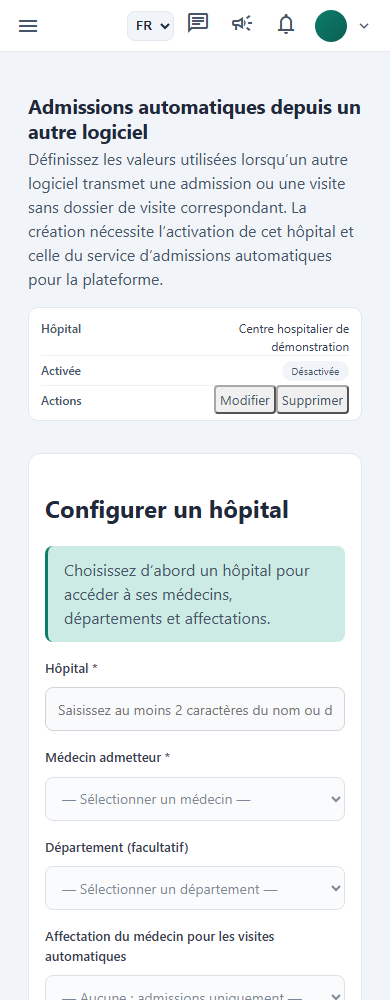
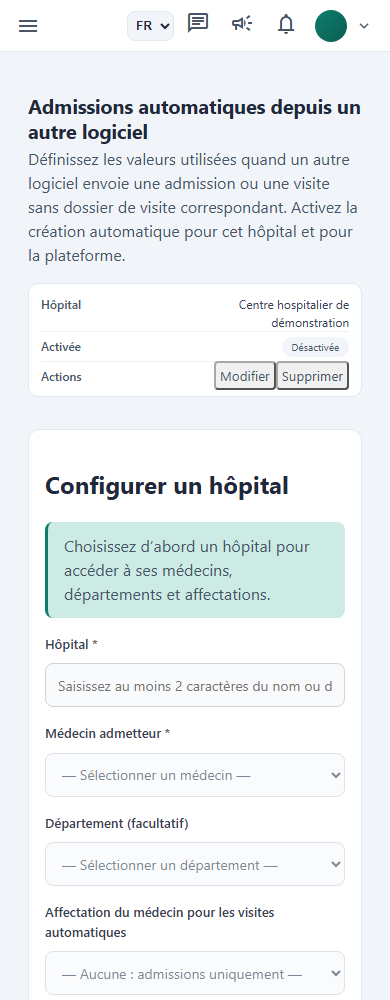
fix(portal): verify form styling and screenshot evidence (#1322)
* style(admin): adopt native form design and explain automatic admissions

* docs(ui): refresh admin screenshots against current develop

* fix(admin): address review guards, mobile styles and production form CI

* fix(ui): enforce CSS evidence and retain form display semantics

* fix(portal): verify complete form styles and screenshot evidence

---------

diff --git a/docs/ui/c-ui-admin/README.md b/docs/ui/c-ui-admin/README.md
@@ -1,7 +1,6 @@
 # C-UI: administration and integrations
 
-Display-only form work. The shared `appFormControl` directive adds the uniquely
-named `keneya-form-control` style to native controls. It has no value accessor,
+Display-only form work. The shared `appFormControl` attribute styles native controls directly, even if a view omits the optional directive import. The directive also adds the uniquely named `keneya-form-control` class. It has no value accessor,
 validator, event listener or API call. Form values, validation and event bindings are unchanged. The shell gains a
 presentation-only wrapLabel flag for the admissions navigation label. Native text/select/textarea binding,
 validation and disabled behavior are covered by tests.
@@ -44,3 +43,5 @@ control now has its own reasoned entry; copying one again fails the guard.
 This corrects the old collision rather than adding an exception for new code.
 
 Current review follow-up: the census checks the cited compiled component/global CSS selectors, not only reason text. Removing the order-set stylesheet fails the census. The ADT labels/help styles are carried over to form-group; reverting the stylesheet makes both-width browser checks fail (font weight 600 instead of 500). The mapping filter and DHIS label heights are measured too. Edit-state evidence: [390 px](automatic-admissions-edit-390.png), [1440 px](automatic-admissions-edit-1440.png). All 13 screenshots were refreshed from the passing production run. The two CI production suites reuse one build; the shared config still builds by default locally.
+
+The latest review correction compares complete parsed CSS selectors, including each member of a comma list; an unrelated ancestor prefix invalidates evidence. Template ownership follows actual Component metadata, external Sass compiles by filename, and only scoped exceptions need component CSS. Inline keys include the component class name. All 87 existing exceptions remain; five keys gained component identities. The screenshot guard checks the documented PNG set and every hash, including both edit states. ADT wording now describes automatic creation for both the hospital and platform, covering admissions and visits.
